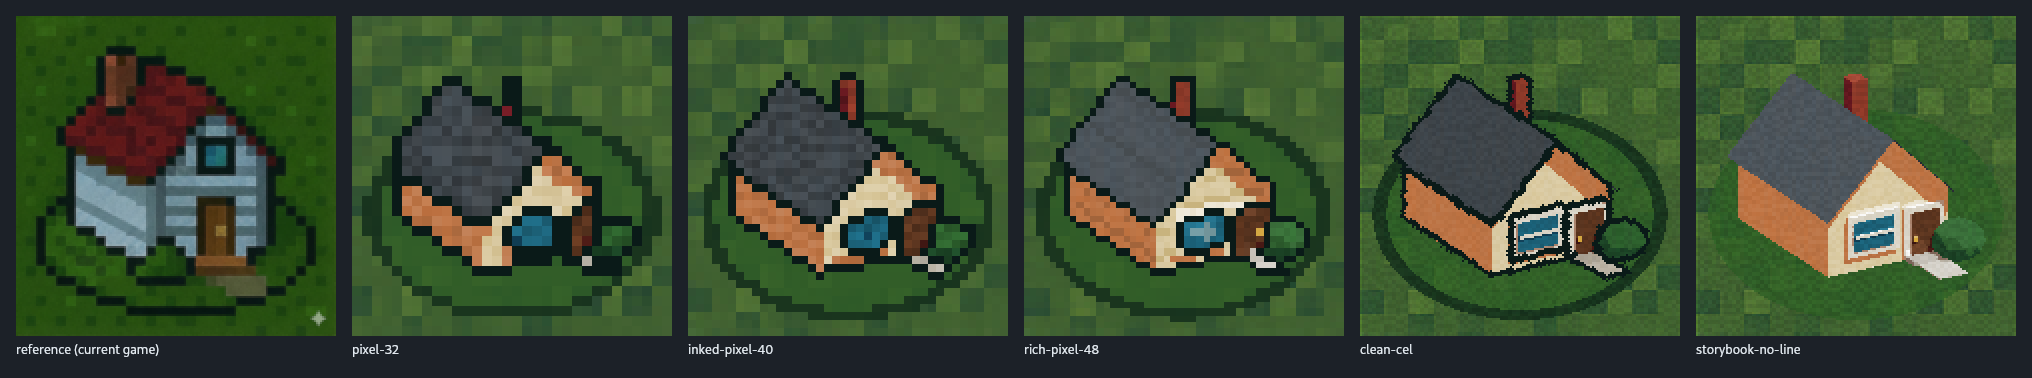
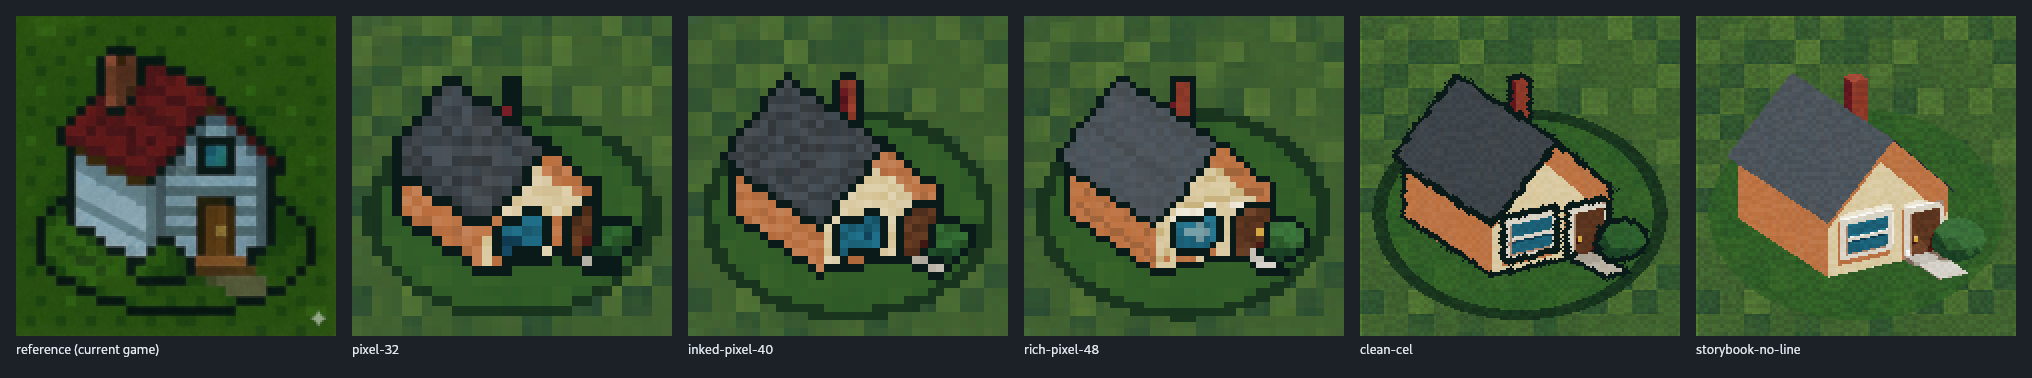
fix(studio): shift house2's window further left off the door border

diff --git a/studio/scenes/house2.py b/studio/scenes/house2.py
@@ -71,7 +71,7 @@ def build(mats):
     # massing reads through a squat window rather than a tall one).
     fx = WALL_W / 2
     win_z = WALL_H * 0.55
-    win_y = -0.22
+    win_y = -0.32
     face_box(mats, 'trim', fx, win_y, win_z, WIN_W + 0.16, WIN_H + 0.16, 0.02, 0.04)
     face_box(mats, 'window', fx, win_y, win_z, WIN_W, WIN_H, 0.05)
     face_box(mats, 'mullion', fx, win_y, win_z, WIN_W, 0.05, 0.065)
